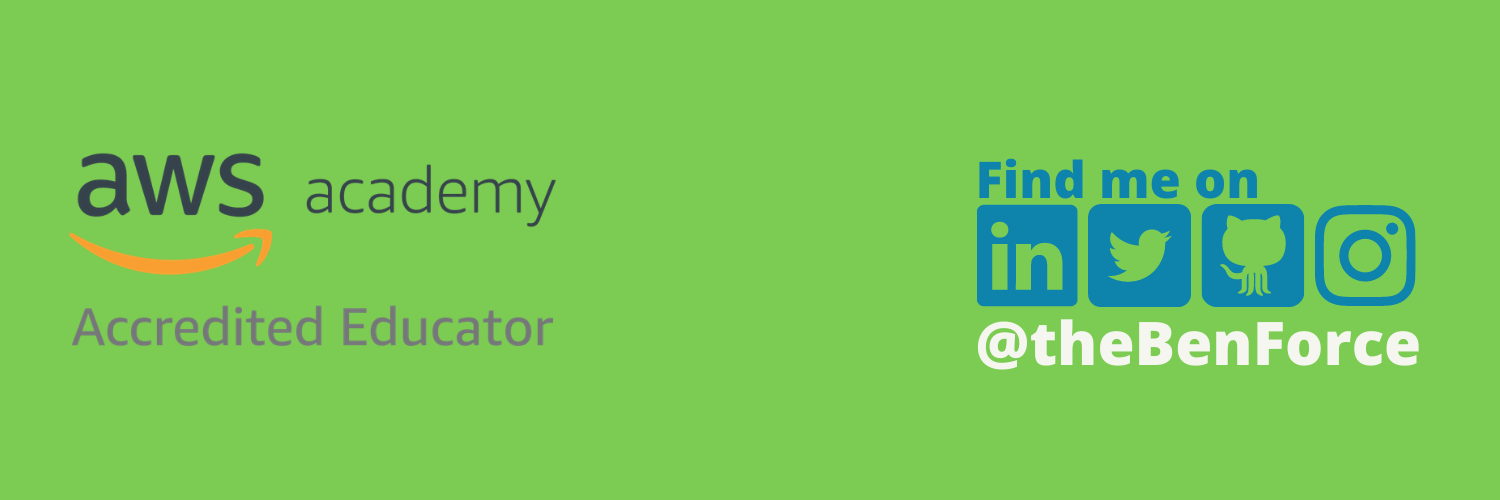
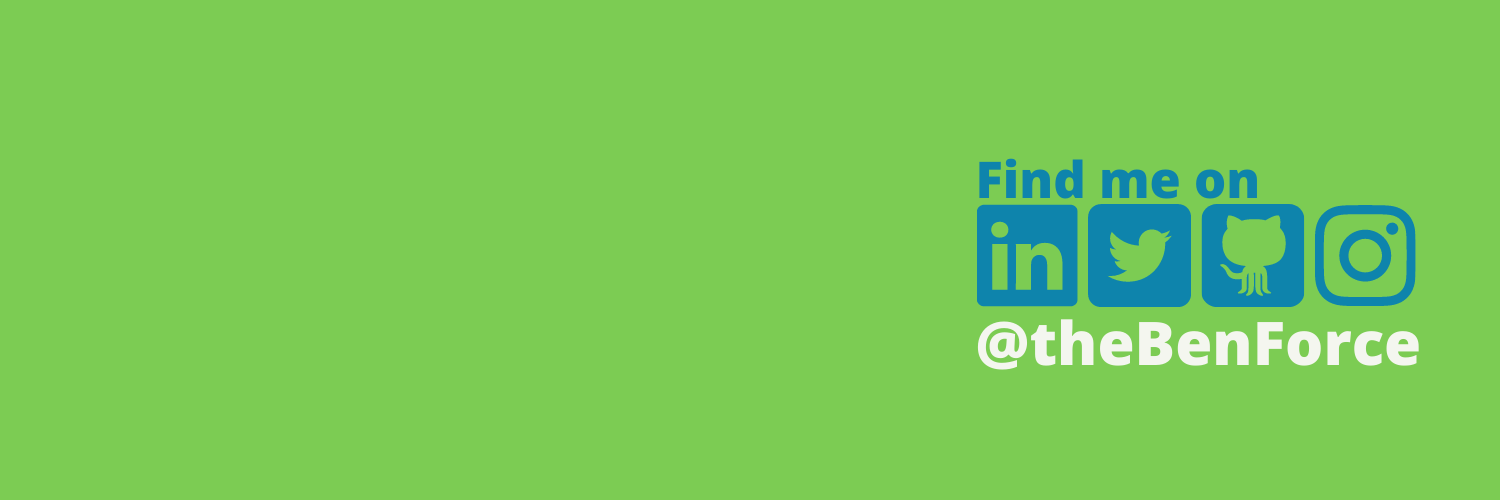
feat: update certifications

Changed region(s): [[0.0307, 0.3, 0.368, 0.57], [0.0307, 0.6, 0.368, 0.69]]

diff --git a/README.md b/README.md
@@ -28,15 +28,15 @@ Here are some ideas to get you started:
 
 ## Certifications 🎓
 
+
+[![AWS Certified Solutions Architect – Professional](images/aws-certified-solutions-architect-professional.png)](https://www.credly.com/badges/90e57fee-f83b-4ccf-83a9-1bc82d0a9aa6/public_url)
 [![AWS Certified DevOps Engineer – Professional](images/AWS-DevOps-Engineer-Pro.png)](https://www.credly.com/badges/df0e4641-e70e-4cdc-8690-d7bef304d54b/public_url)
 
-[![AWS Certified Solutions Architect – Associate](images/AWS-SolArchitect-Associate-2020.png)](https://www.credly.com/badges/32e978fb-28d0-44d5-abd2-f6d15a707a8a/public_url)
-[![AWS Certified Developer – Associate](images/AWS-Developer-Associate-2020.png)](https://www.credly.com/badges/2820faa8-7076-47d5-ac6a-ee6b0abc015f/public_url)
-[![AWS Certified SysOps Administrator - Associate](https://images.credly.com/size/110x110/images/bf588058-87cc-4cbd-94b0-ef0385fb4371/AWS-SysOpAdmin-Associate-2020.png)](https://www.credly.com/badges/9fdd3738-6f06-4f83-8ed4-20f1be1d5595/public_url)
+[![AWS Certified Solutions Architect – Associate](images/aws-certified-solutions-architect-associate.png)](https://www.credly.com/badges/32e978fb-28d0-44d5-abd2-f6d15a707a8a/public_url)
+[![AWS Certified Developer – Associate](images/aws-certified-developer-associate.png)](https://www.credly.com/badges/2820faa8-7076-47d5-ac6a-ee6b0abc015f/public_url)
+[![AWS Certified SysOps Administrator - Associate](images/aws-certified-sysops-administrator-associate.png)](https://www.credly.com/badges/9fdd3738-6f06-4f83-8ed4-20f1be1d5595/public_url)
 
-[![AWS Certified Cloud Practitioner](images/AWS-CloudPractitioner-2020.png)](https://www.credly.com/badges/673c6ebf-5dcb-46b1-aab8-47f3edbffbff/public_url)
-
-[![AWS Academy Accredited Educator](images/AWS-Academy-Accredited-Educator-Badge.png)](https://www.credly.com/badges/8e6dd65a-1e2a-40c5-818e-b9c2da7cc1a8/public_url)
+[![AWS Certified Cloud Practitioner](images/aws-certified-cloud-practitioner.png)](https://www.credly.com/badges/673c6ebf-5dcb-46b1-aab8-47f3edbffbff/public_url)
 
 
 ### Let's Connect 🔗
